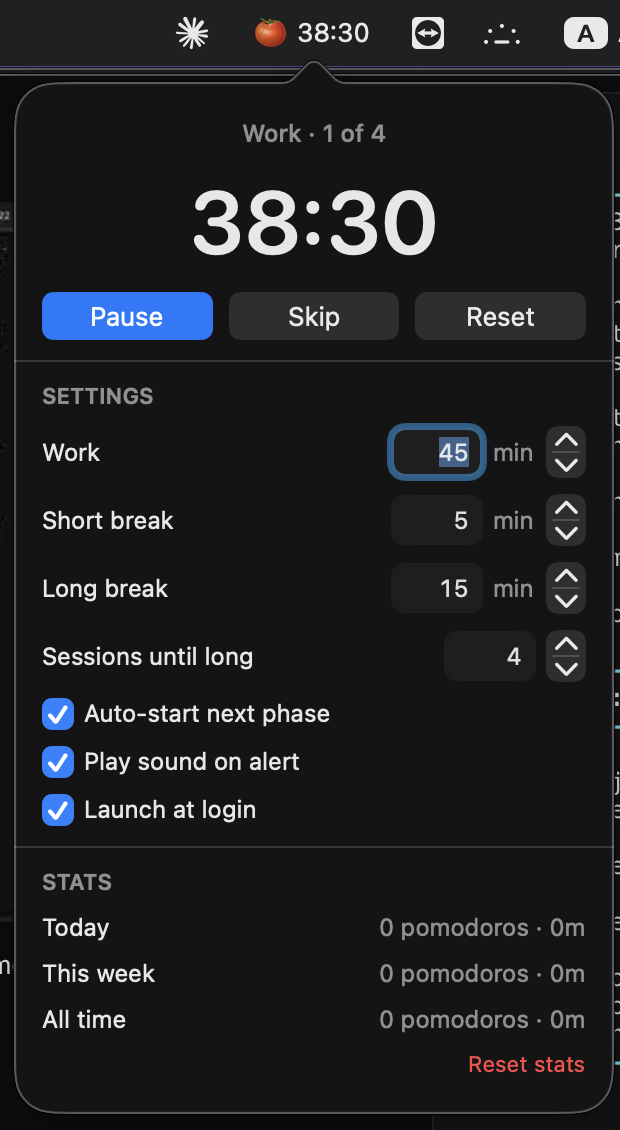
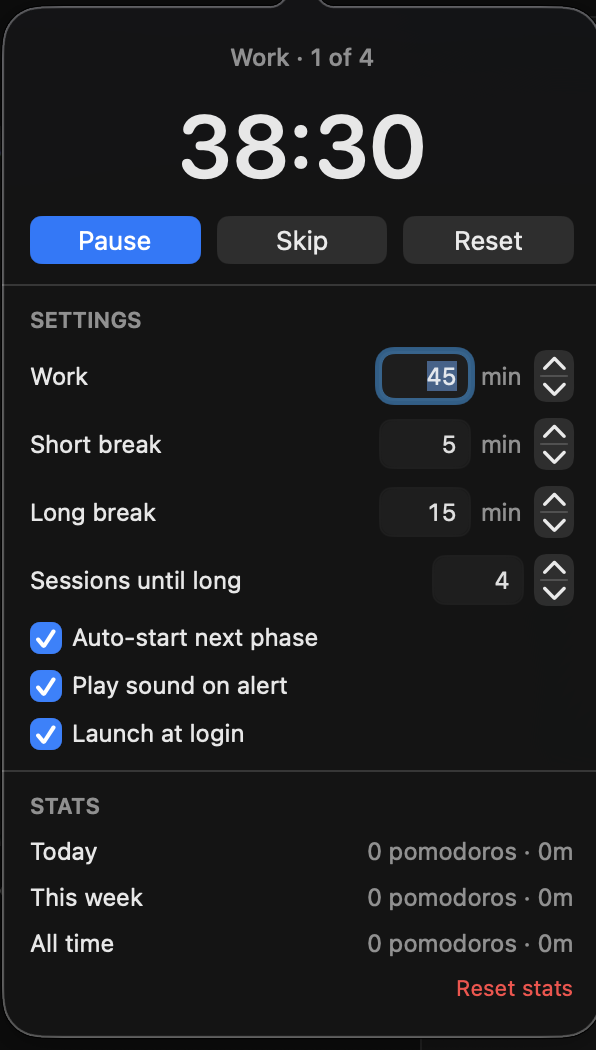
docs: tighten screenshot crops and center them in README

Changed region(s): [[0.0, 0.0, 1.0, 1.0]]

diff --git a/README.md b/README.md
@@ -5,10 +5,9 @@
 
 Lightweight macOS menu bar Pomodoro timer. Native Swift + SwiftUI, no dependencies, ~265KB binary, no dock icon.
 
-![Menu bar with always-visible countdown](docs/images/menubar.png)
-
 <p align="center">
-  <img src="docs/images/popover.png" alt="Popover with timer, settings, and stats" width="360">
+  <img src="docs/images/menubar.png" alt="Menu bar countdown" width="480"><br><br>
+  <img src="docs/images/popover.png" alt="Popover with timer, settings, and stats" width="320">
 </p>
 
 ## Features
